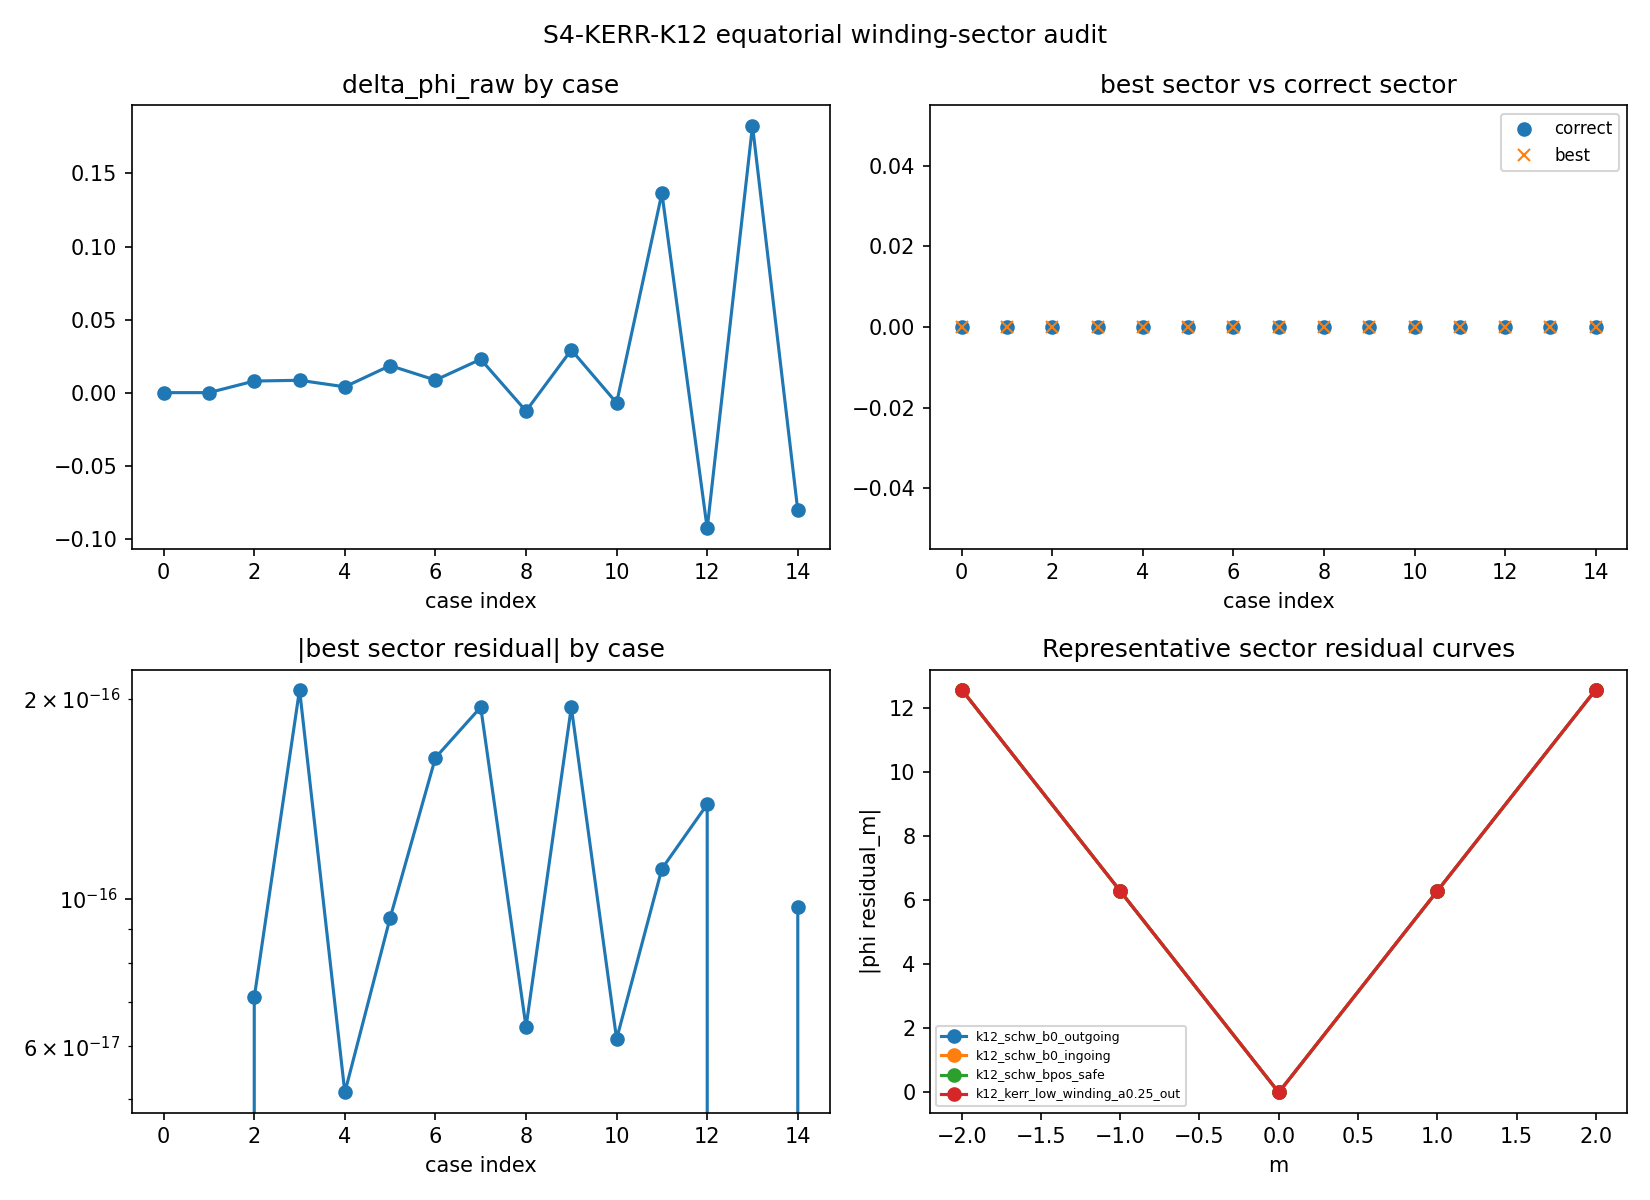
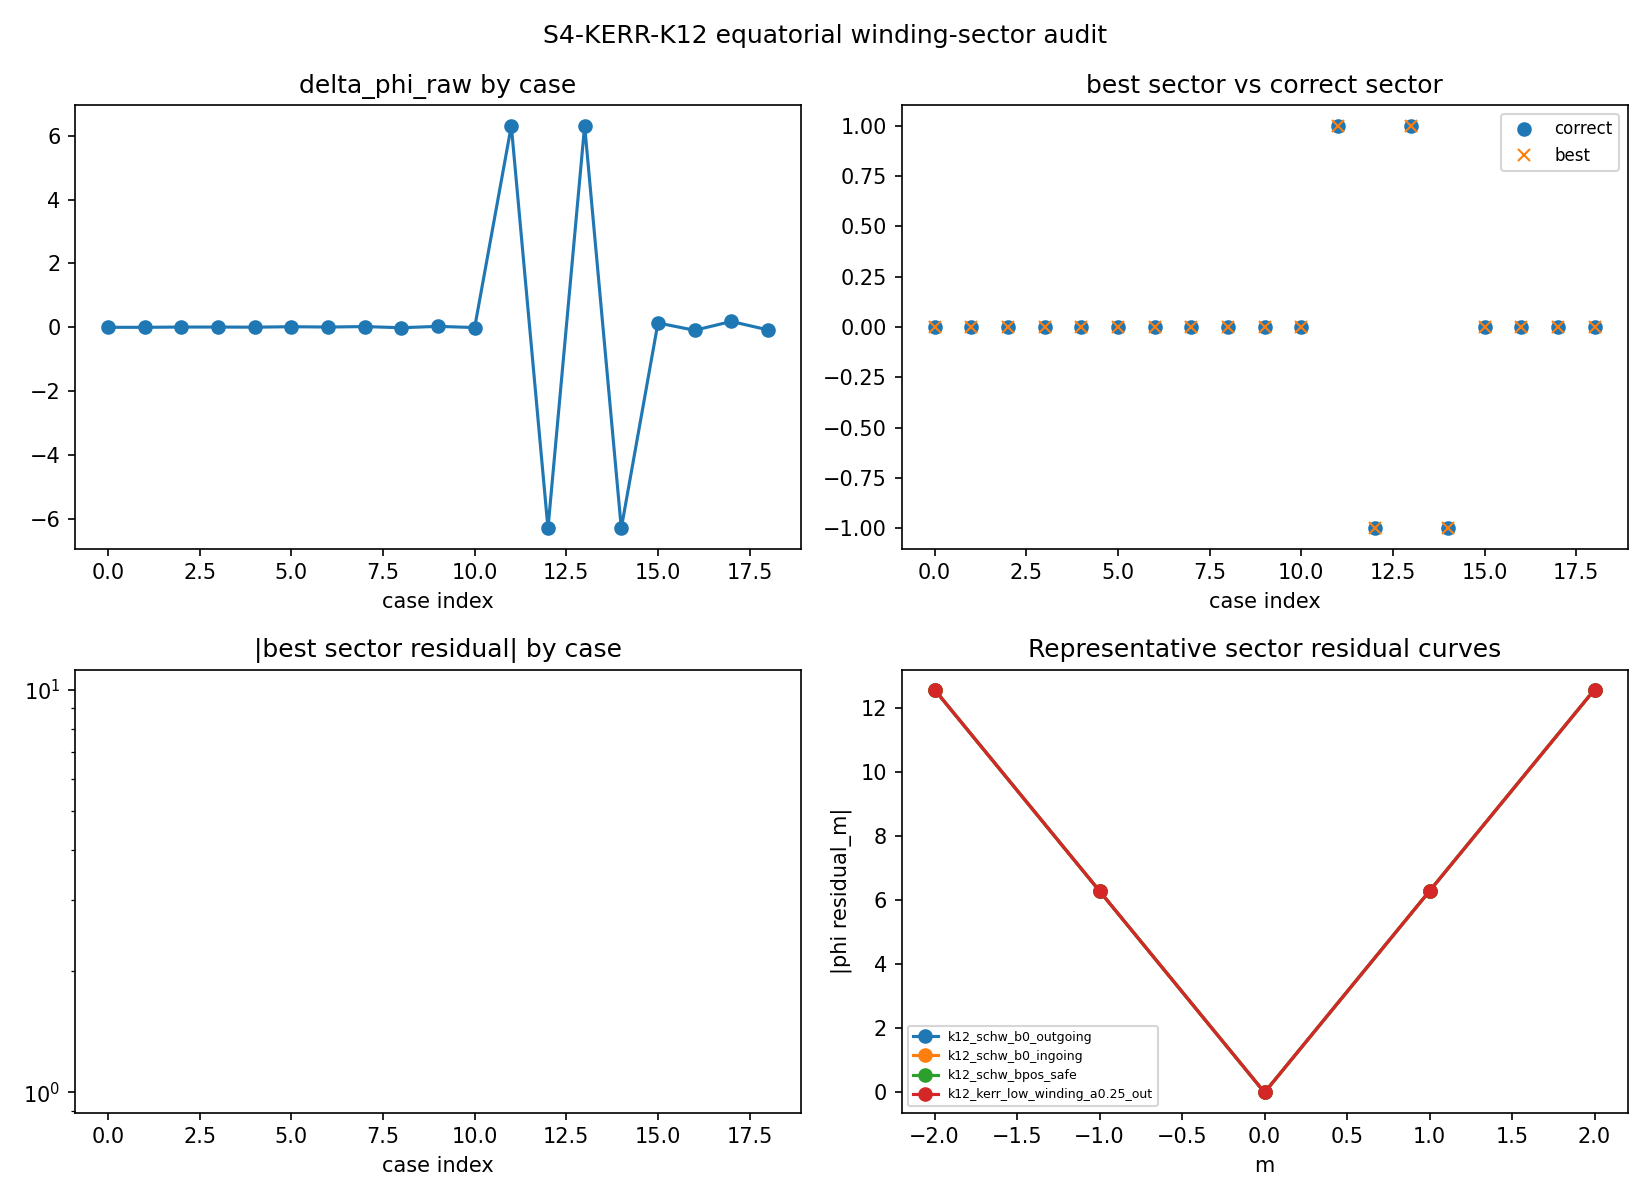
sorkin4: add nontrivial angular-lift sectors to K12 audit

diff --git a/explore/sorkin4_kerr_benchmark/audit_kerr_k12_equatorial_winding_sector_audit_001.py b/explore/sorkin4_kerr_benchmark/audit_kerr_k12_equatorial_winding_sector_audit_001.py
@@ -57,8 +57,7 @@ def _wrap_to_pi(x: float) -> float:
 def _sector_metrics(phi_final: float, phi_target_full: float) -> tuple[float, int, dict[int, float], int, float]:
     delta_phi_raw = phi_target_full
     winding_m_estimate = int(round(delta_phi_raw / (2.0 * math.pi)))
-    phi_target_wrapped = _wrap_to_pi(phi_target_full)
-    residuals = {m: (phi_final - phi_target_wrapped + 2.0 * math.pi * m) for m in SECTOR_MS}
+    residuals = {m: (phi_final - phi_target_full + 2.0 * math.pi * m) for m in SECTOR_MS}
     best_m = min(SECTOR_MS, key=lambda m: abs(residuals[m]))
     best_res = residuals[best_m]
     return delta_phi_raw, winding_m_estimate, residuals, best_m, best_res
@@ -74,6 +73,7 @@ def _run_case(
     lambda_end: float,
     case_type: str,
     sign_expectation: str | None = None,
+    sector_lift_m: int = 0,
     advisory_only: bool = False,
 ) -> dict[str, Any]:
     # Forward-generate synthetic target.
@@ -87,7 +87,8 @@ def _run_case(
     phi_initial = shot["states"][0][2]
     t_initial = shot["states"][0][0]
     delta_t = t_final - t_initial
-    phi_target = phi_final - phi_initial
+    phi_target_raw = phi_final - phi_initial
+    phi_target = phi_target_raw + 2.0 * math.pi * sector_lift_m
     delta_phi_raw, winding_m_estimate, sector_residuals, best_sector_m, best_sector_residual = _sector_metrics(
         phi_final=phi_final, phi_target_full=phi_target
     )
@@ -135,6 +136,7 @@ def _run_case(
         "b": b,
         "direction": "outgoing" if direction > 0 else "ingoing",
         "case_type": case_type,
+        "sector_lift_m": sector_lift_m,
         "r_plus": kerr_horizon_radius(MASS, spin),
         "r0": r0,
         "lambda_end": lambda_end,
@@ -255,6 +257,35 @@ def build_cases() -> list[dict[str, Any]]:
             )
         )
 
+    # 3b) explicit lifted-sector bookkeeping checks (non-physical lifts)
+    for spin in (0.25, 0.5):
+        r_plus = kerr_horizon_radius(MASS, spin)
+        r0 = r_plus + schwarz.EXTERIOR_MARGIN + 1.3
+        cases.append(
+            _run_case(
+                case_id=f"k12_lifted_mplus1_a{spin:.2f}",
+                spin=spin,
+                b=+1.0,
+                direction=+1.0,
+                r0=r0,
+                lambda_end=0.25,
+                case_type="synthetic_lifted_sector_m_plus_1",
+                sector_lift_m=+1,
+            )
+        )
+        cases.append(
+            _run_case(
+                case_id=f"k12_lifted_mminus1_a{spin:.2f}",
+                spin=spin,
+                b=-1.0,
+                direction=+1.0,
+                r0=r0,
+                lambda_end=0.25,
+                case_type="synthetic_lifted_sector_m_minus_1",
+                sector_lift_m=-1,
+            )
+        )
+
     # 4) Optional advisory near-photon probe
     for spin in (0.25, 0.5):
         rph = photon_sphere_radius_pro(MASS, spin)
@@ -293,7 +324,7 @@ def build_cases() -> list[dict[str, Any]]:
 def write_csv(rows: list[dict[str, Any]], path: Path) -> None:
     fields = [
         "case_id", "spin_a", "M", "E", "b", "direction", "case_type", "r_plus", "r0",
-        "lambda_end", "delta_t", "delta_phi_raw", "winding_m_estimate", "correct_sector_m",
+        "lambda_end", "delta_t", "delta_phi_raw", "winding_m_estimate", "sector_lift_m", "correct_sector_m",
         "best_sector_m", "best_sector_residual", "correct_sector_recovered",
         "synthetic_winding_sector_recovered", "prograde_retrograde_sign_pass", "min_r",
         "max_r", "min_Delta", "min_R", "max_abs_null_residual", "max_abs_E_residual",
@@ -342,10 +373,13 @@ def write_md(summary: dict[str, Any], path: Path) -> None:
         "# S4-KERR-K12 equatorial winding-sector audit",
         "",
         "K12 audits winding-sector bookkeeping on synthetic targets.",
+        "K12 includes two levels: (1) physical low-winding synthetic trajectories; "
+        "(2) synthetic angular-lift bookkeeping cases with phi shifted by ±2π.",
         "It does not use sprinkling event pairs.",
         "It does not decide causal reachability.",
         "It does not implement a production Kerr causal classifier.",
         "correct_sector_recovered is not physical reachability.",
+        "Angular-lift cases test sector bookkeeping only, not physical multi-winding accumulation.",
         "advisory near-photon-sphere cases are diagnostics only.",
         "",
         f"- Total cases: {summary['total_cases']}",

diff --git a/tests/test_sorkin4_kerr_k12_equatorial_winding_sector_audit.py b/tests/test_sorkin4_kerr_k12_equatorial_winding_sector_audit.py
@@ -87,6 +87,18 @@ class KerrK12ArtifactTests(unittest.TestCase):
                 assert c["best_sector_m"] == c["correct_sector_m"], c["case_id"]
                 assert abs(c["best_sector_residual"]) <= 1.0e-6, c["case_id"]
 
+    def test_has_nontrivial_plus_minus_one_sectors(self):
+        cases = _load_json()["cases"]
+        assert any((not c["advisory_only"]) and c["correct_sector_m"] == 1 for c in cases)
+        assert any((not c["advisory_only"]) and c["correct_sector_m"] == -1 for c in cases)
+
+    def test_lifted_sector_rows_recover_correct_sector(self):
+        for c in _load_json()["cases"]:
+            if (not c["advisory_only"]) and (not c["unresolved"]) and c["case_type"].startswith("synthetic_lifted_sector"):
+                assert c["best_sector_m"] == c["correct_sector_m"], c["case_id"]
+                assert c["correct_sector_recovered"] is True, c["case_id"]
+                assert c["synthetic_winding_sector_recovered"] is True, c["case_id"]
+
     def test_caveats_in_md_and_readme(self):
         text = (
             MD_PATH.read_text(encoding="utf-8").lower()
@@ -99,6 +111,8 @@ class KerrK12ArtifactTests(unittest.TestCase):
             "does not decide causal reachability",
             "does not implement a production kerr causal classifier",
             "correct_sector_recovered is not physical reachability",
+            "synthetic angular-lift bookkeeping cases",
+            "not physical multi-winding",
         ]
         for needle in required:
             assert needle in text, needle

diff --git a/explore/sorkin4_kerr_benchmark/kerr_k12_equatorial_winding_sector_audit_001_n12_seed1959.md b/explore/sorkin4_kerr_benchmark/kerr_k12_equatorial_winding_sector_audit_001_n12_seed1959.md
@@ -1,14 +1,16 @@
 # S4-KERR-K12 equatorial winding-sector audit
 
 K12 audits winding-sector bookkeeping on synthetic targets.
+K12 includes two levels: (1) physical low-winding synthetic trajectories; (2) synthetic angular-lift bookkeeping cases with phi shifted by ±2π.
 It does not use sprinkling event pairs.
 It does not decide causal reachability.
 It does not implement a production Kerr causal classifier.
 correct_sector_recovered is not physical reachability.
+Angular-lift cases test sector bookkeeping only, not physical multi-winding accumulation.
 advisory near-photon-sphere cases are diagnostics only.
 
-- Total cases: 15
-- Passed cases: 11
+- Total cases: 19
+- Passed cases: 15
 - Advisory cases: 4
-- Synthetic winding targets generated: 15
-- Synthetic winding targets recovered: 15
+- Synthetic winding targets generated: 19
+- Synthetic winding targets recovered: 19

diff --git a/explore/sorkin4_kerr_benchmark/README.md b/explore/sorkin4_kerr_benchmark/README.md
@@ -434,6 +434,8 @@ The K11 artifact set is
 K12 audits winding-sector bookkeeping on synthetic equatorial Kerr targets.
 Targets are forward-generated under controlled initial data and checked against
 sector residuals over tested winding indices `m`.
+K12 includes both: (1) physical low-winding synthetic trajectories and
+(2) synthetic angular-lift bookkeeping cases with `phi` shifted by `±2π`.
 
 K12 constraints:
 
@@ -446,6 +448,8 @@ Interpretation constraint:
 
 - `correct_sector_recovered` is synthetic bookkeeping only and not physical
   causal reachability.
+- lifted-sector cases are bookkeeping tests, not physical multi-winding
+  geodesic accumulation evidence.
 - advisory near-photon-sphere winding probes are diagnostics only.
 
 The K12 artifact set is